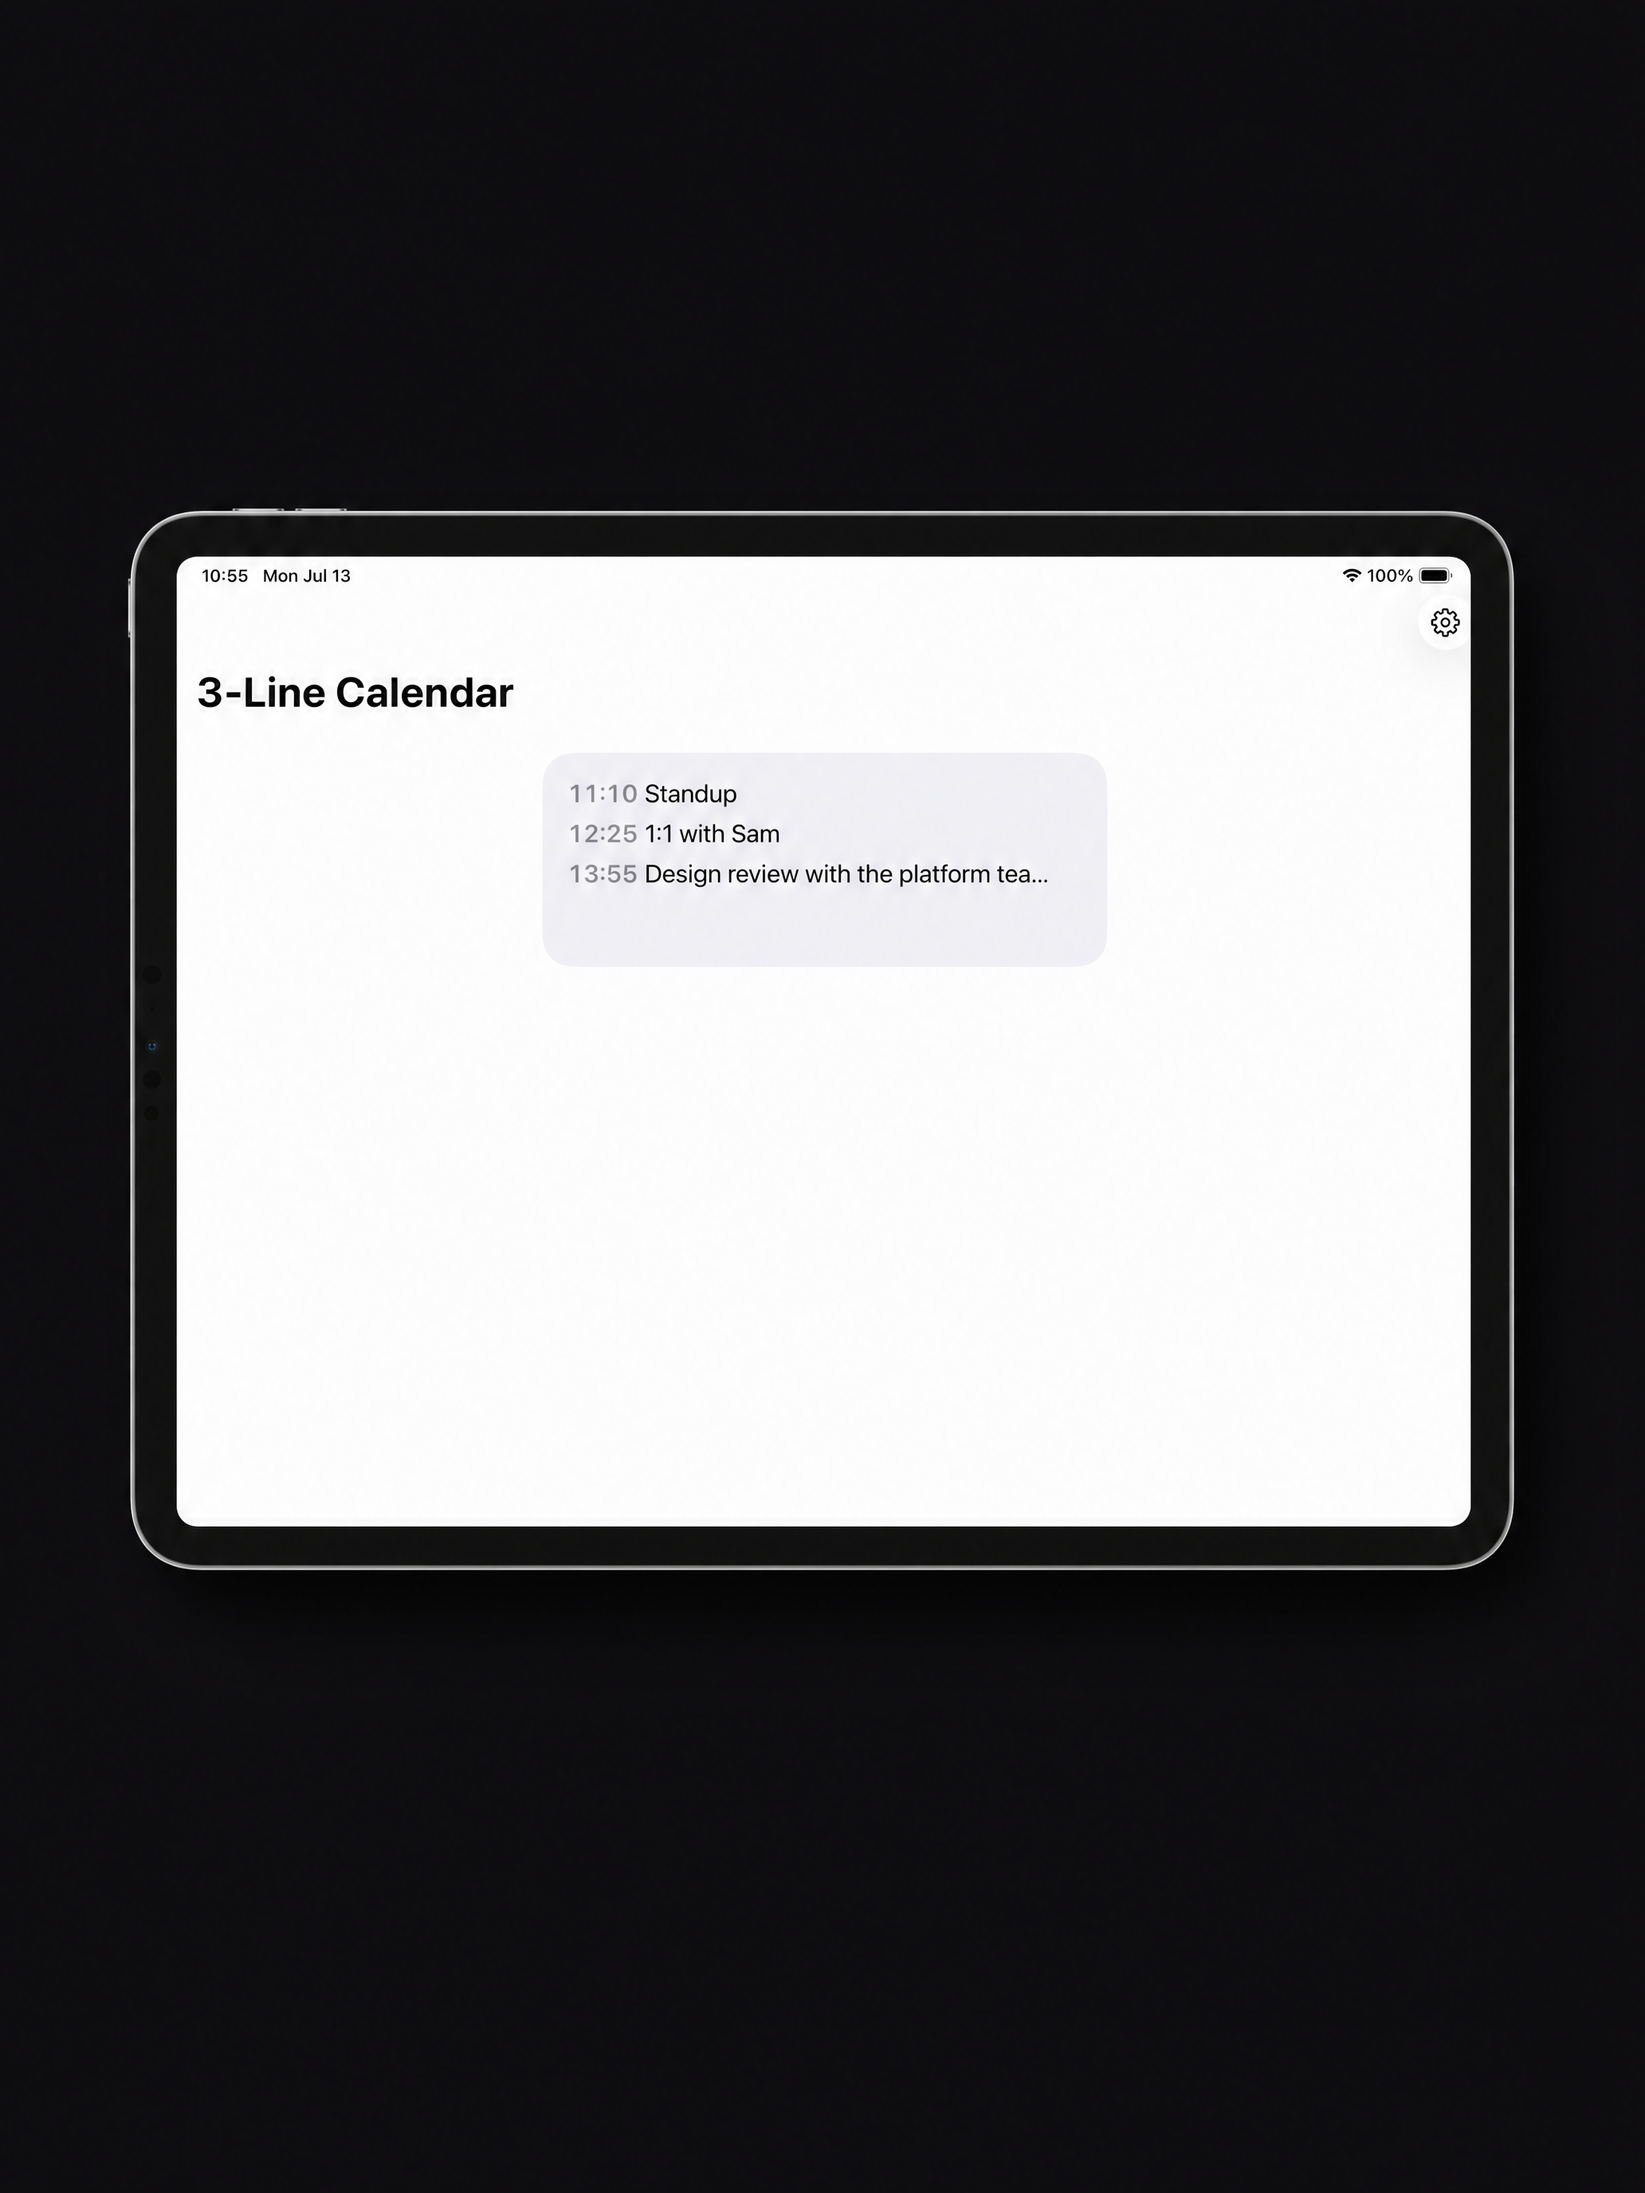
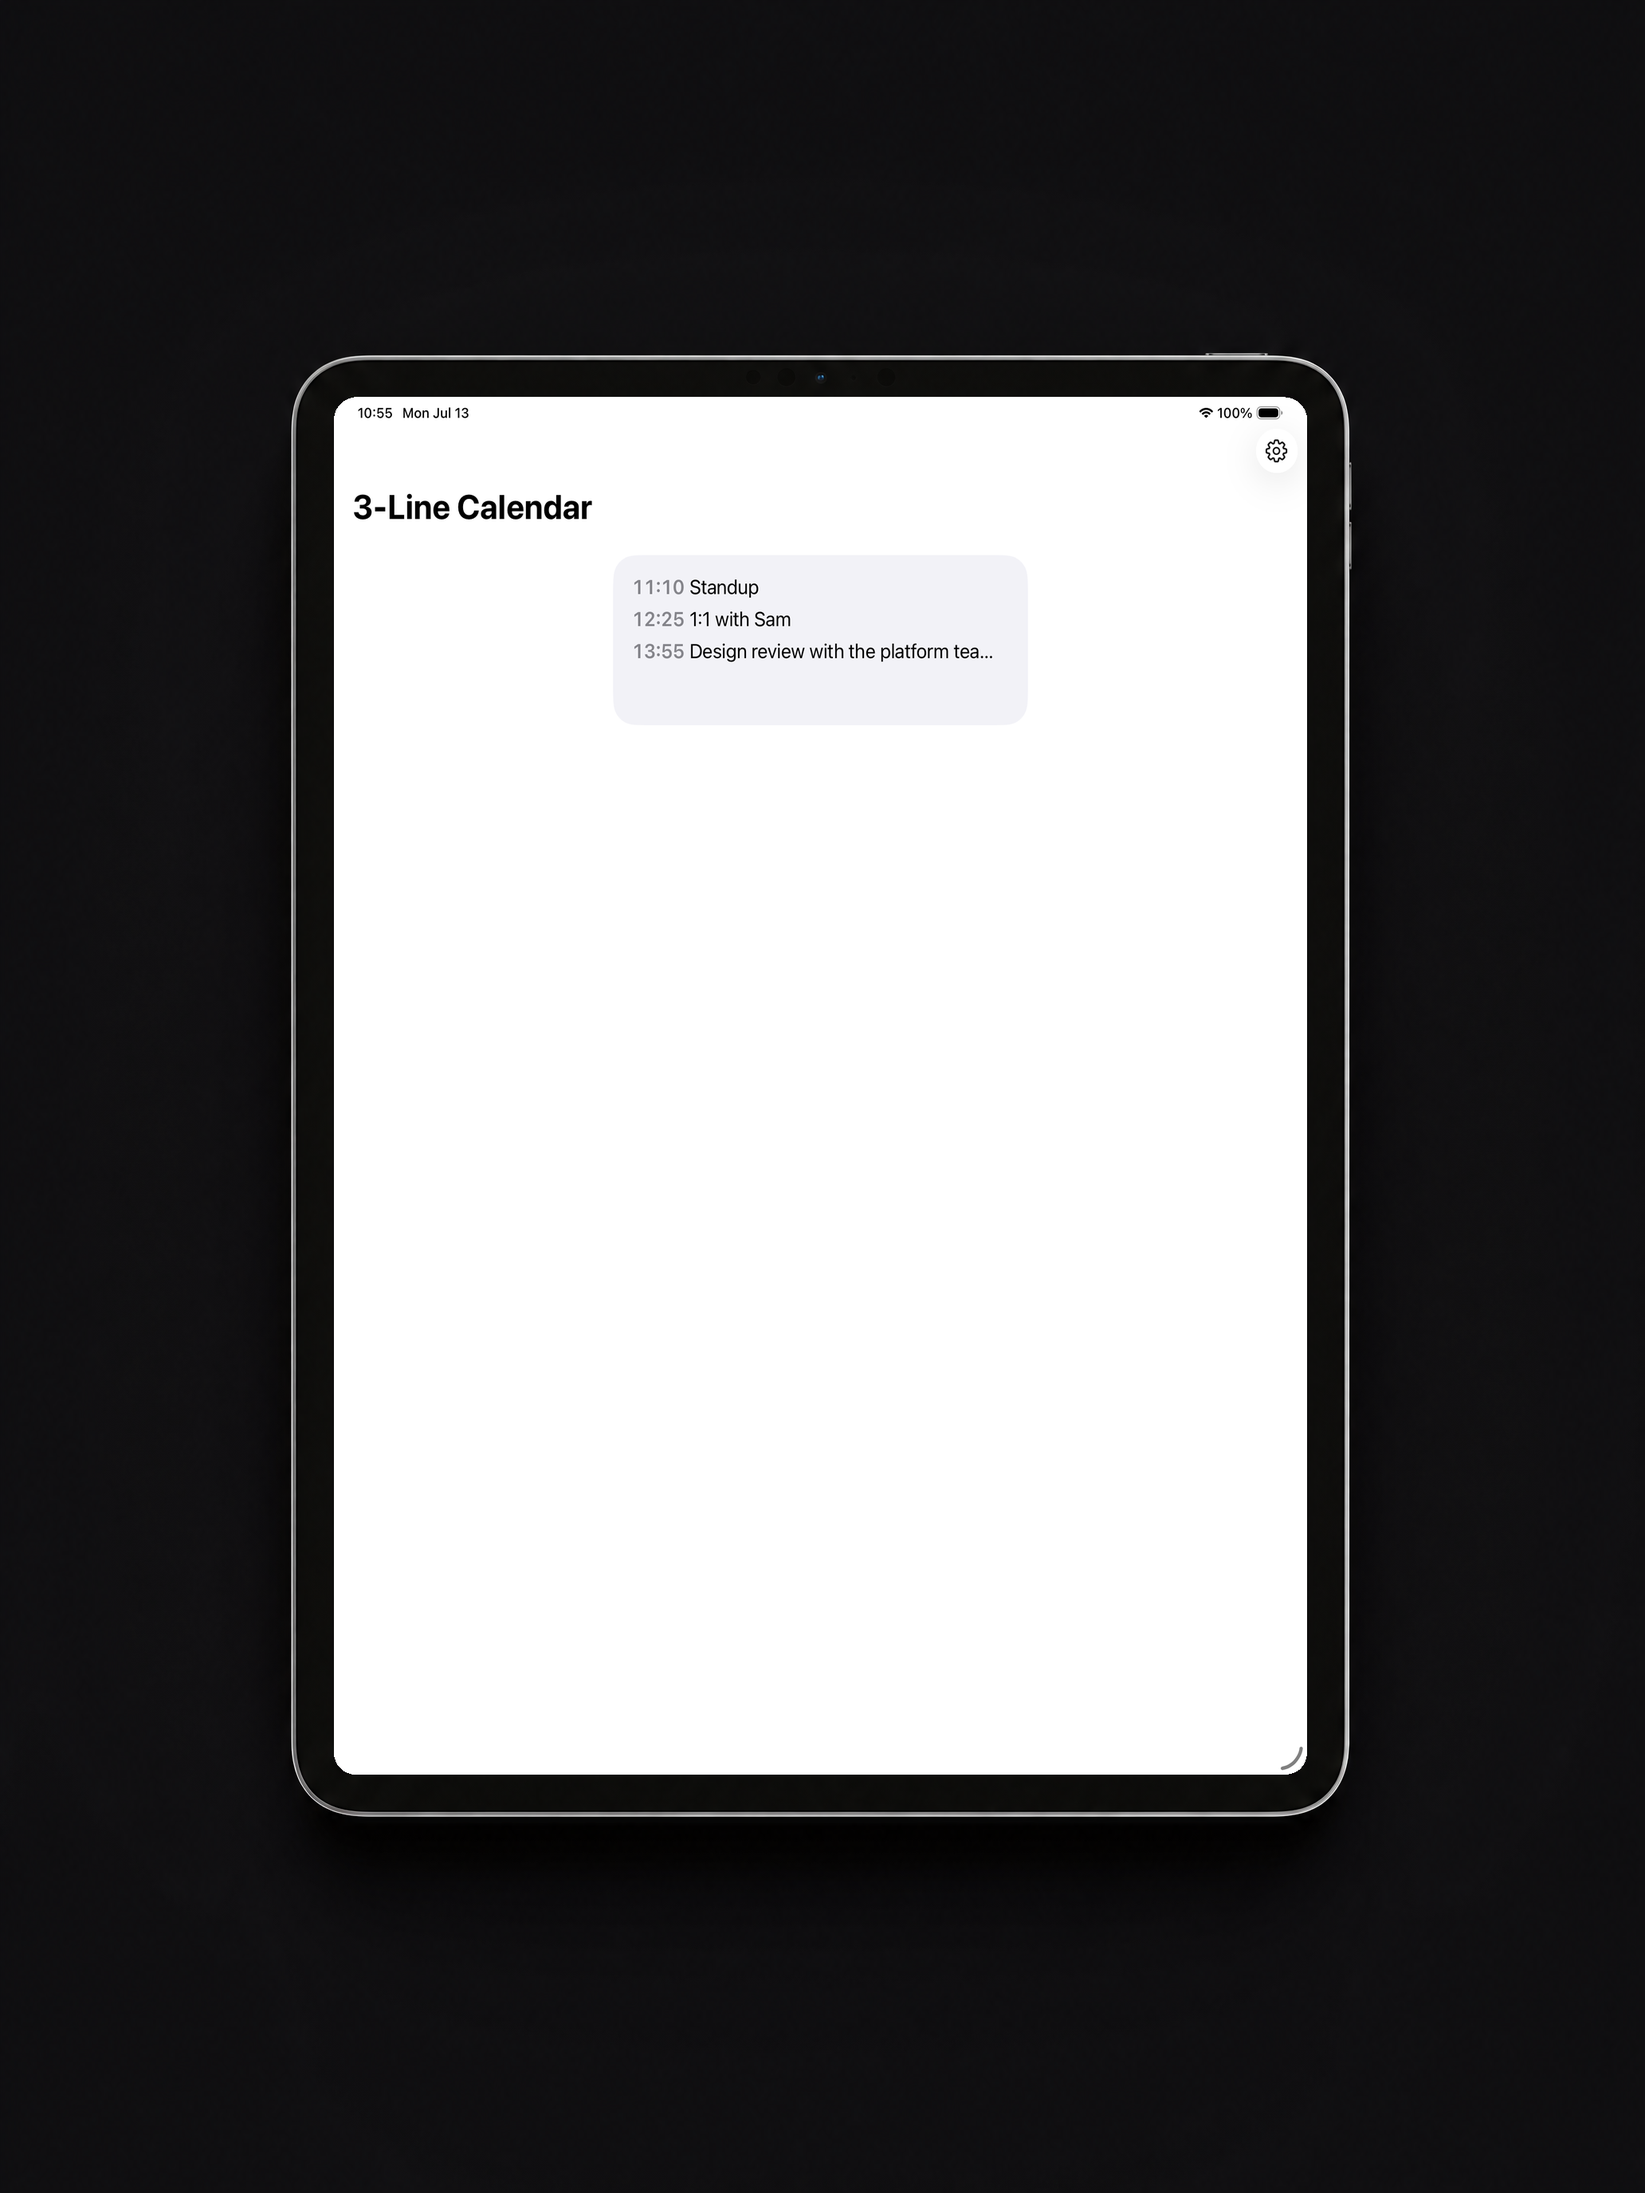
marketing: faithful iPhone/iPad/Watch (real screenshots, no AI repaint)
Completes the faithfulness pass across the whole set. iPhone and iPad now
composite the REAL device screenshot into an AI-generated device frame (head-on,
charcoal, magenta chroma screen) instead of letting gpt-image-2 repaint the
screen. Watch uses the real watch-face screenshot directly — the App Store watch
slot (422x514) is the screen itself, so no frame is needed.

- scripts/composite_mac_marketing.py: +--screenshot (fills the device screen with
  the real screenshot, masked to the exact rounded screen shape) and +--out-size.
- marketing/prompts/{iphone,ipad}-frame.txt + marketing/frames/{iphone,ipad}-magenta.png:
  one-time AI device frames with a flat magenta screen for chroma-keying.
- marketing/store/{iphone,ipad}.png: real screenshot composited into the frame.
- marketing/store/watch.png: the real watch-face screenshot (422x514).

The full store set is now faithful (real app pixels, exact store dimensions):
iphone, ipad, watch, mac, mac-widget. STYLE.md §8 updated.

Note: the iPad frame's AI screen aspect (~0.706) is slightly narrower than the
real iPad (0.75), so the screenshot is stretched ~6% — imperceptible, but
regenerate the frame for a pixel-perfect aspect if desired.

Changed region(s): [[0.062, 0.1562, 0.9302, 0.8125], [0.3411, 0.3438, 0.6202, 0.4062]]

diff --git a/scripts/composite_mac_marketing.py b/scripts/composite_mac_marketing.py
@@ -64,14 +64,17 @@ def main():
     ap.add_argument("--frame", required=True)
     ap.add_argument("--window", help="real app window capture (rounded already)")
     ap.add_argument("--widget", help="real widget render (gets rounded corners)")
+    ap.add_argument("--screenshot", help="real full-screen screenshot; fills the device screen")
     ap.add_argument("--out", required=True)
+    ap.add_argument("--out-size", default="2560x1600", help="final store size, WxH")
     ap.add_argument("--wallpaper", help="optional wallpaper image; default = gradient")
     ap.add_argument("--height-frac", type=float,
                     help="content height as a fraction of the screen height "
                          "(default 0.78 for --window, 0.5 for --widget)")
     args = ap.parse_args()
-    if not (args.window or args.widget):
-        raise SystemExit("pass --window or --widget")
+    if not (args.window or args.widget or args.screenshot):
+        raise SystemExit("pass --window, --widget, or --screenshot")
+    ow, oh = (int(v) for v in args.out_size.lower().split("x"))
 
     frame = Image.open(args.frame).convert("RGB")
     # Dilate the mask a few px so screen content buries the anti-aliased magenta
@@ -79,6 +82,23 @@ def main():
     mask = magenta_mask(frame).filter(ImageFilter.MaxFilter(9))
     x0, y0, x1, y1 = mask.getbbox()
     sw, sh = x1 - x0, y1 - y0
+
+    # --- fill-screen mode (iPhone/iPad/Watch): the REAL screenshot fills the
+    # device screen, masked to its exact rounded shape. Pure real pixels. ---
+    if args.screenshot:
+        # Stretch to the exact screen box: fills with no crop (the real screenshot
+        # is edge-to-edge screen content). Distortion = the frame-vs-device aspect
+        # gap, which should be tiny if the frame's screen matches the device.
+        shot = Image.open(args.screenshot).convert("RGB").resize((sw, sh), Image.LANCZOS)
+        placed = Image.new("RGBA", frame.size, (0, 0, 0, 0))
+        placed.paste(shot, (x0, y0))
+        result = Image.composite(placed, frame.convert("RGBA"), mask).convert("RGB")
+        if result.size != (ow, oh):
+            result = result.resize((ow, oh), Image.LANCZOS)
+        result.save(args.out)
+        print(f"wrote {args.out} ({result.width}x{result.height}); screen bbox "
+              f"= ({x0},{y0})-({x1},{y1}) {sw}x{sh}")
+        return
 
     # --- build the deterministic screen content (our desktop) ---
     if args.wallpaper:
@@ -125,8 +145,8 @@ def main():
     placed.paste(screen, (x0, y0))
     result = Image.composite(placed, frame.convert("RGBA"), mask).convert("RGB")
 
-    if result.size != (2560, 1600):
-        result = result.resize((2560, 1600), Image.LANCZOS)
+    if result.size != (ow, oh):
+        result = result.resize((ow, oh), Image.LANCZOS)
     result.save(args.out)
     print(f"wrote {args.out} ({result.width}x{result.height}); screen bbox "
           f"= ({x0},{y0})-({x1},{y1}) {sw}x{sh}")

diff --git a/marketing/STYLE.md b/marketing/STYLE.md
@@ -199,14 +199,23 @@ magenta chroma screen), `marketing/frames/wallpaper/Tahoe{Light,Dark}.png`
 (extracted from `/System/Library/.../NeptuneOneWallpaper.appex`, the real macOS
 Tahoe default). Fully deterministic, no AI at release time.
 
-**B. iPhone / iPad / Watch — gpt-image-2 (NOT yet faithful):**
+**B. iPhone / iPad — faithful composite (real screenshot into an AI frame):**
 ```
-scripts/make_screenshots.sh  →  scripts/make_marketing.sh (gpt-image-2 images.edit,
-marketing/prompts/*.txt, generates at store size per §2)  →  marketing/store/*.png
+gpt-image-2 generations  ← marketing/prompts/{iphone,ipad}-frame.txt   (one-time:
+        │  a head-on device on charcoal with a flat magenta screen)
+        ▼
+scripts/composite_mac_marketing.py --screenshot screenshots/<device>-companion.png
+        │  --frame marketing/frames/<device>-magenta.png --out-size WxH
+        ▼     the REAL screenshot fills the exact magenta screen shape. No AI repaint.
 ```
-⚠ These currently let gpt-image-2 repaint the screen — pending the same
-faithful-composite treatment as Mac (real screenshot into an AI/plain frame).
-Requires `OPENAI_API_KEY`.
+Reusable: `marketing/frames/{iphone,ipad}-magenta.png`. The real screenshot is
+stretched to the frame's screen box — keep the AI screen aspect close to the
+device (iPhone ≈0.46, iPad =0.75) or a slight squish appears.
+
+**Watch:** the App Store watch slot (422×514) *is* the screen, so use the real
+`screenshots/watch-face-ultra.png` directly — no frame, already faithful.
+
+Requires `OPENAI_API_KEY` for the one-time frame generation only.
 
 Final store-ready images: `marketing/store/{iphone,ipad,watch,mac,mac-widget}.png`
 → `scripts/upload_screenshots.py` (fix Watch displayType per §1 before upload).
